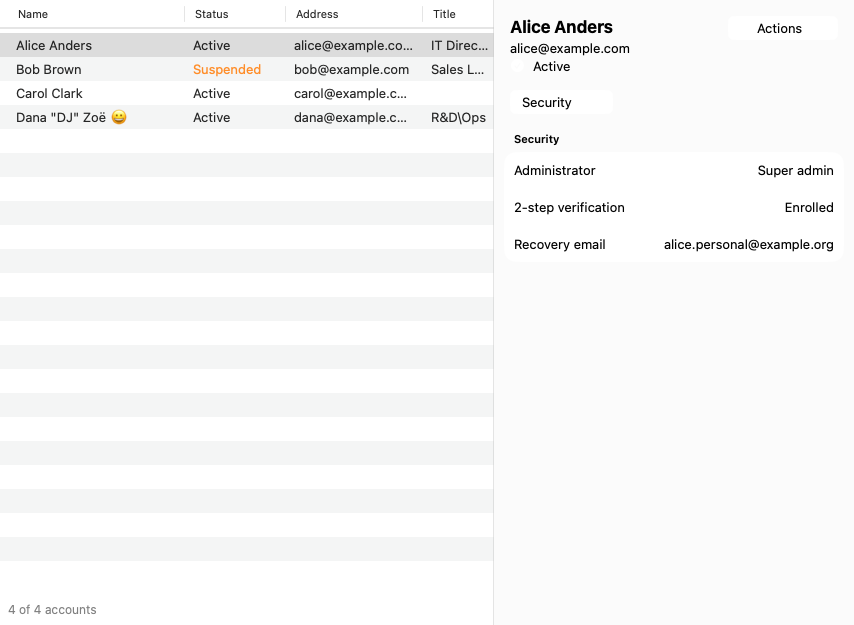
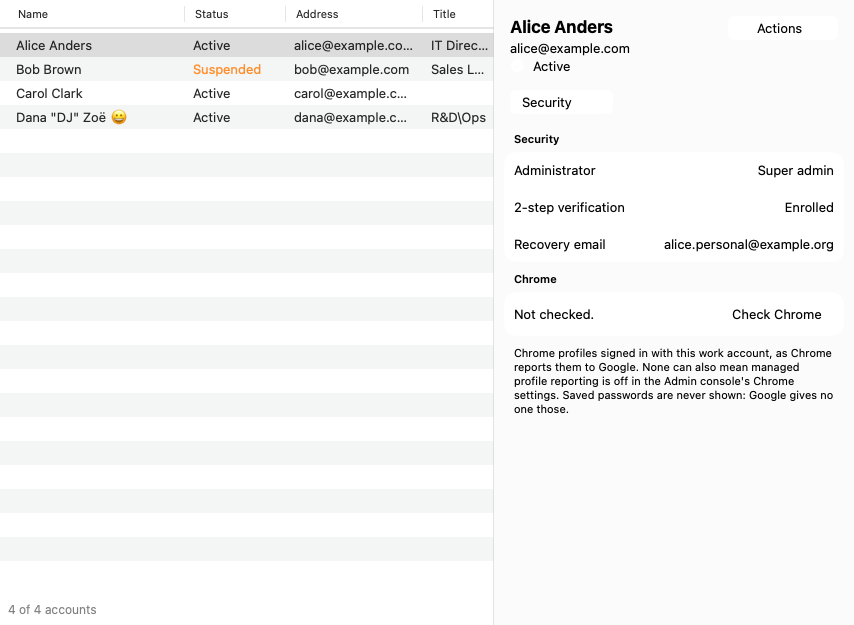
docs: the Chrome profiles screenshot, from CI

diff --git a/README.md b/README.md
@@ -60,7 +60,7 @@ A person's page, opened from Users: an Actions menu for what changes the account
 
 | Calendar | Security |
 |---|---|
-| ![A person's Calendar tab: who can see their calendar, each with Remove…, an access level and a field to share it](docs/screenshots/person-calendar.png) | ![A person's security: admin role, 2-step verification and recovery email](docs/screenshots/person-security.png) |
+| ![A person's Calendar tab: who can see their calendar, each with Remove…, an access level and a field to share it](docs/screenshots/person-calendar.png) | ![A person's security: admin role, 2-step verification and recovery email, and their Chrome profiles checked: each computer, system, Chrome and when it was last used](docs/screenshots/person-chrome.png) |
 
 Groups: the domain's groups, and a group's members, owners first, with Add Members… and a Remove… for
 each member.
